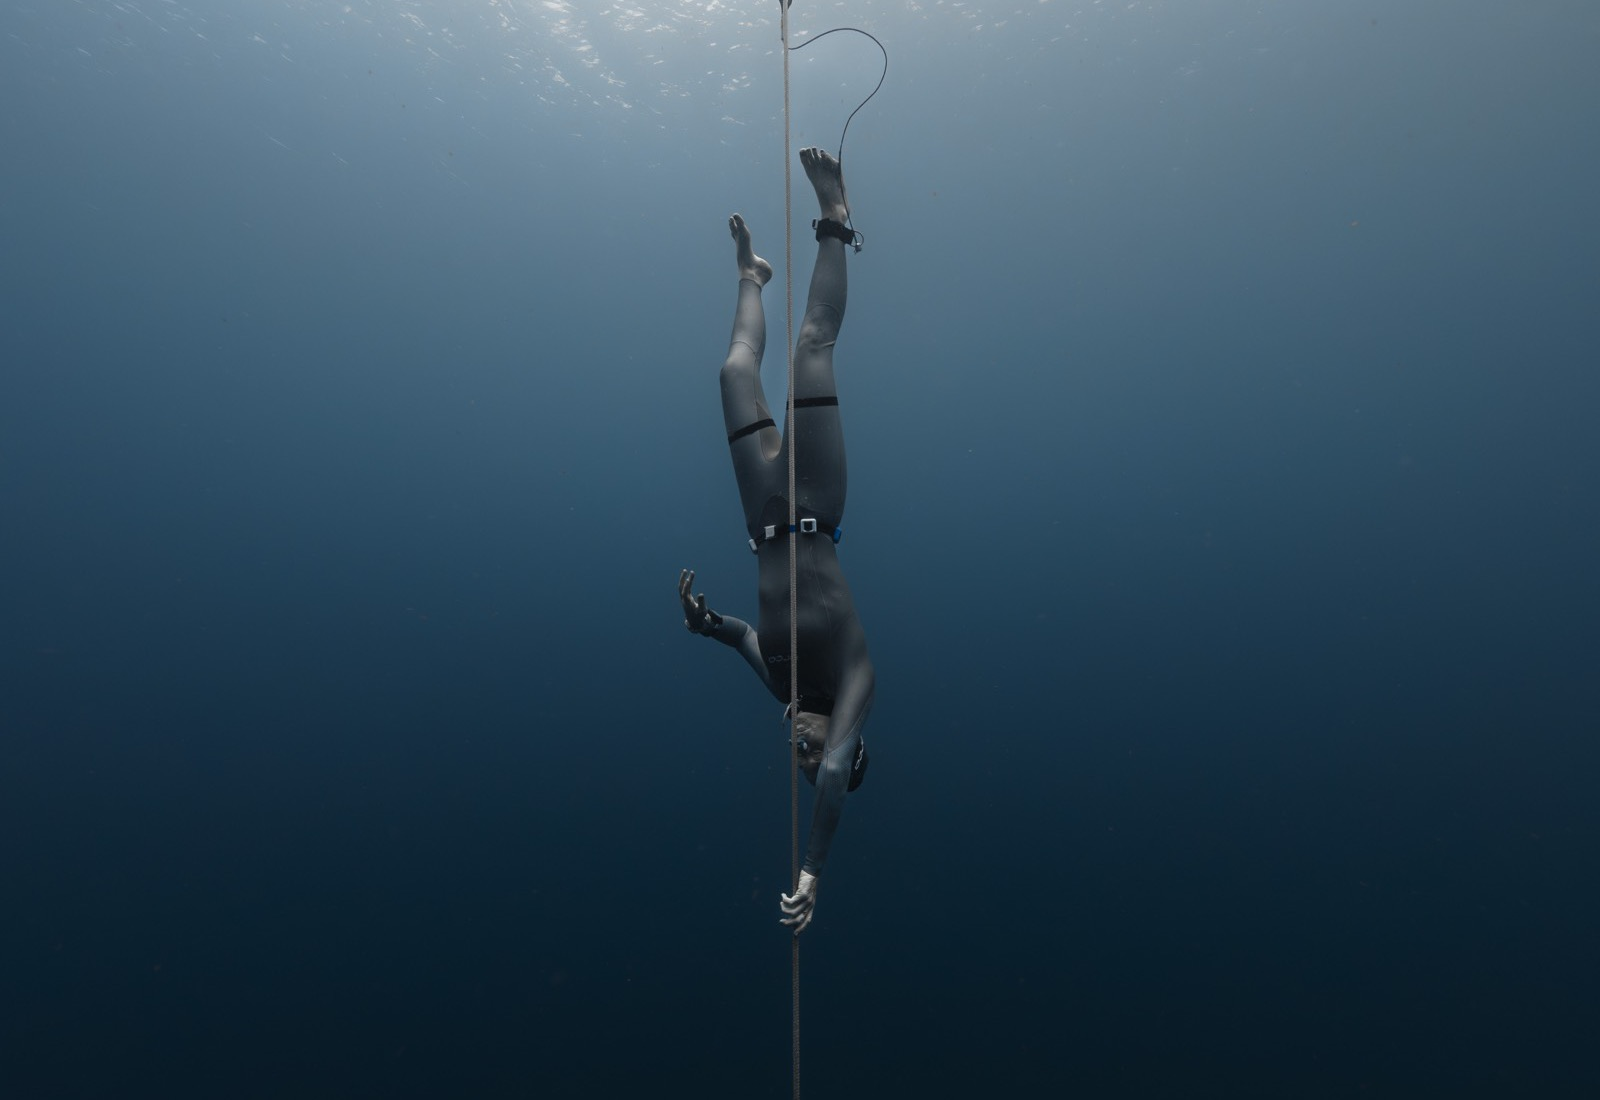
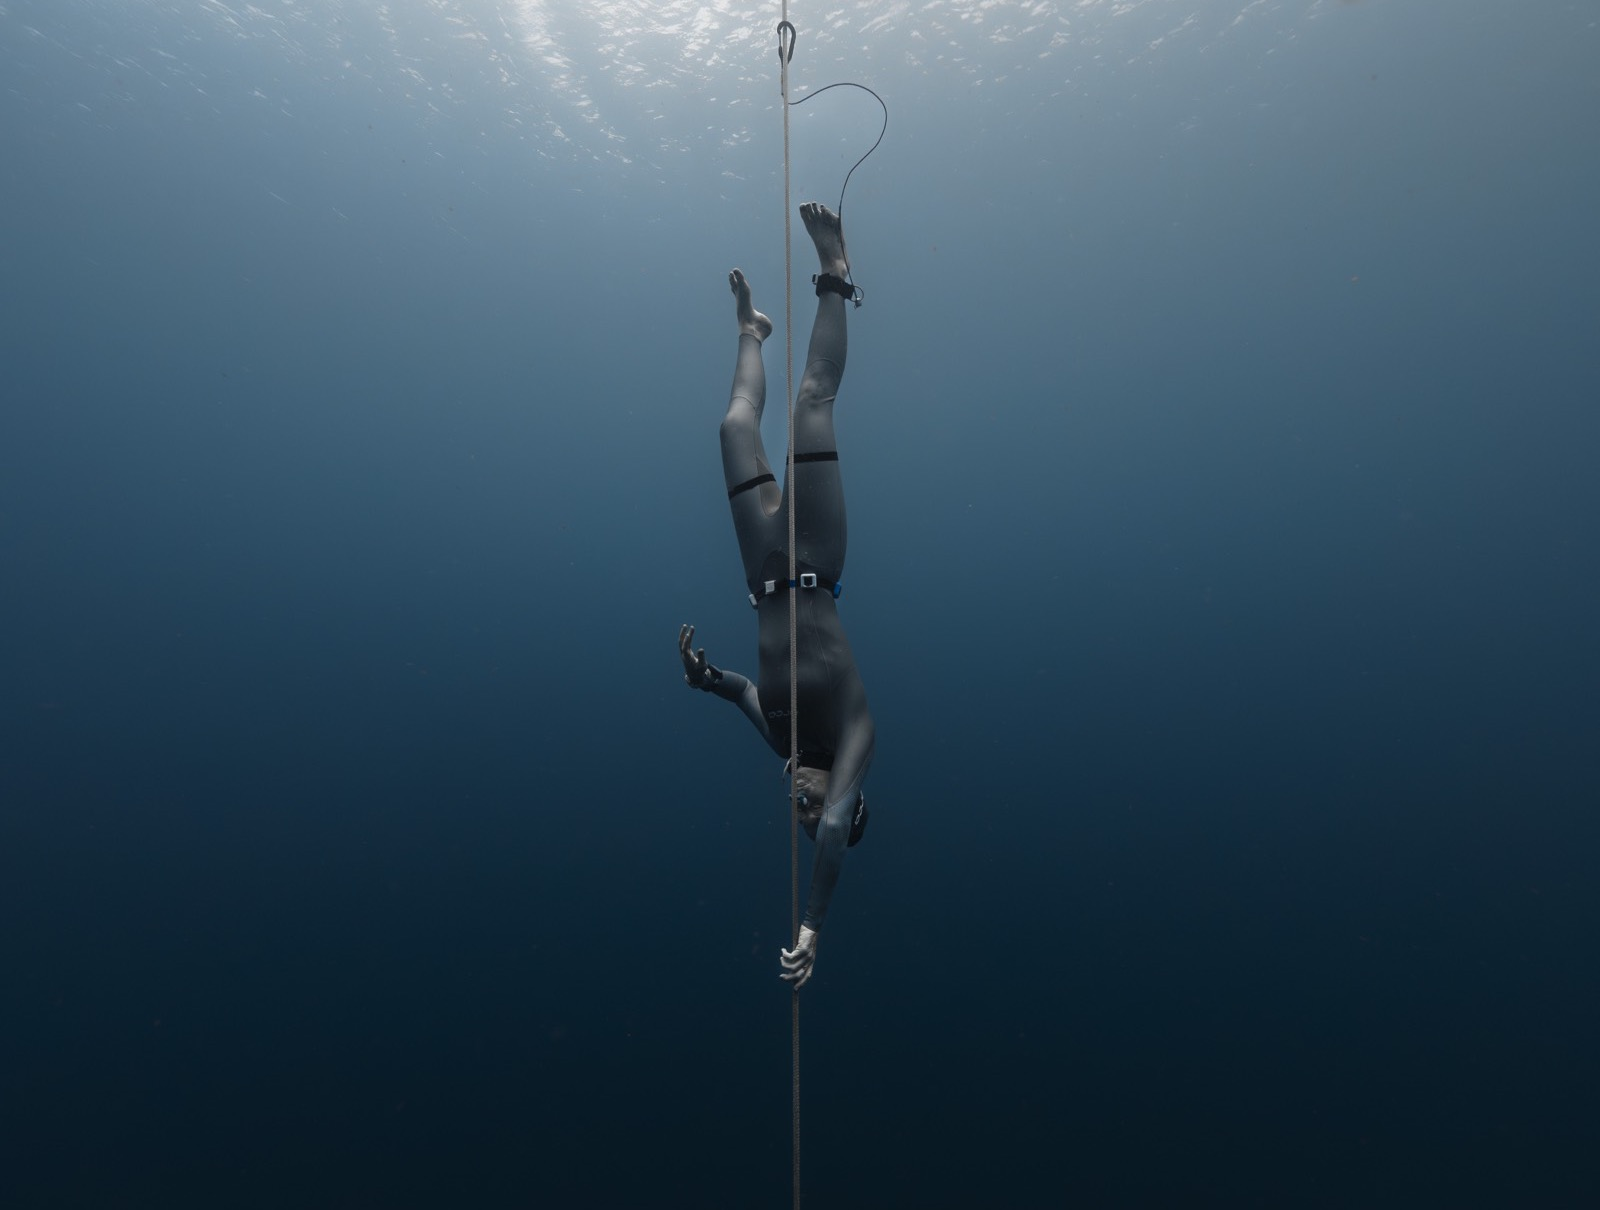
Hero: loosen crop to 1600x1210 and raise min-height to 90vh (beige a little lower) (#6)

diff --git a/assets/js/index.js b/assets/js/index.js
@@ -446,7 +446,7 @@ function Hero() {
   return /*#__PURE__*/React.createElement("section", {
     id: "hero",
     style: {
-      minHeight: '82vh',
+      minHeight: '90vh',
       display: 'grid',
       gridTemplateColumns: '0.85fr 1.15fr',
       background: 'var(--ffd-shell)',

diff --git a/src/index.html b/src/index.html
@@ -147,7 +147,7 @@ function Nav(){
 function Hero() {
   const stats = [{v:'12×',l:'Continental records'},{v:'17×',l:'US national records'},{v:'28°N',l:'Tenerife'},{v:'1 breath',l:'The whole practice'}];
   return (
-    <section id="hero" style={{minHeight:'82vh',display:'grid',gridTemplateColumns:'0.85fr 1.15fr',background:'var(--ffd-shell)',position:'relative',overflow:'hidden'}}>
+    <section id="hero" style={{minHeight:'90vh',display:'grid',gridTemplateColumns:'0.85fr 1.15fr',background:'var(--ffd-shell)',position:'relative',overflow:'hidden'}}>
       {/* Left: dark teal panel */}
       <div style={{display:'flex',flexDirection:'column',justifyContent:'flex-start',padding:'clamp(10rem,16vw,13rem) clamp(1.5rem,5vw,5rem) 4rem clamp(1.25rem,5vw,4rem)',position:'relative',zIndex:2,background:'var(--ffd-deep-tide-2)'}}>
         <div aria-hidden="true" style={{position:'absolute',top:'4rem',left:'-11rem',opacity:0.14,zIndex:-1,pointerEvents:'none'}}>